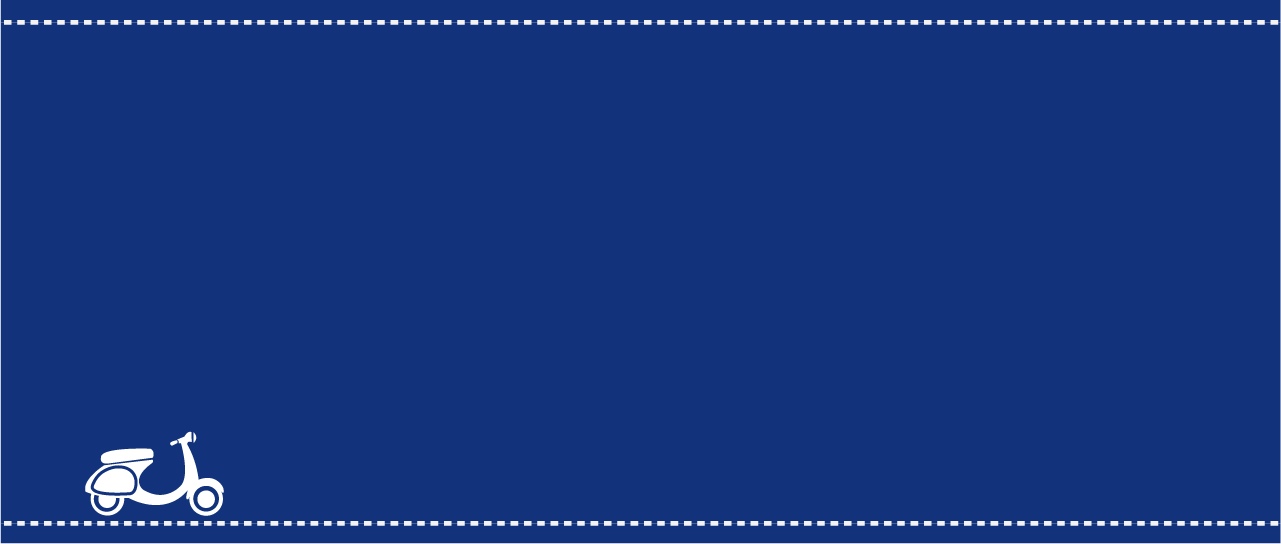
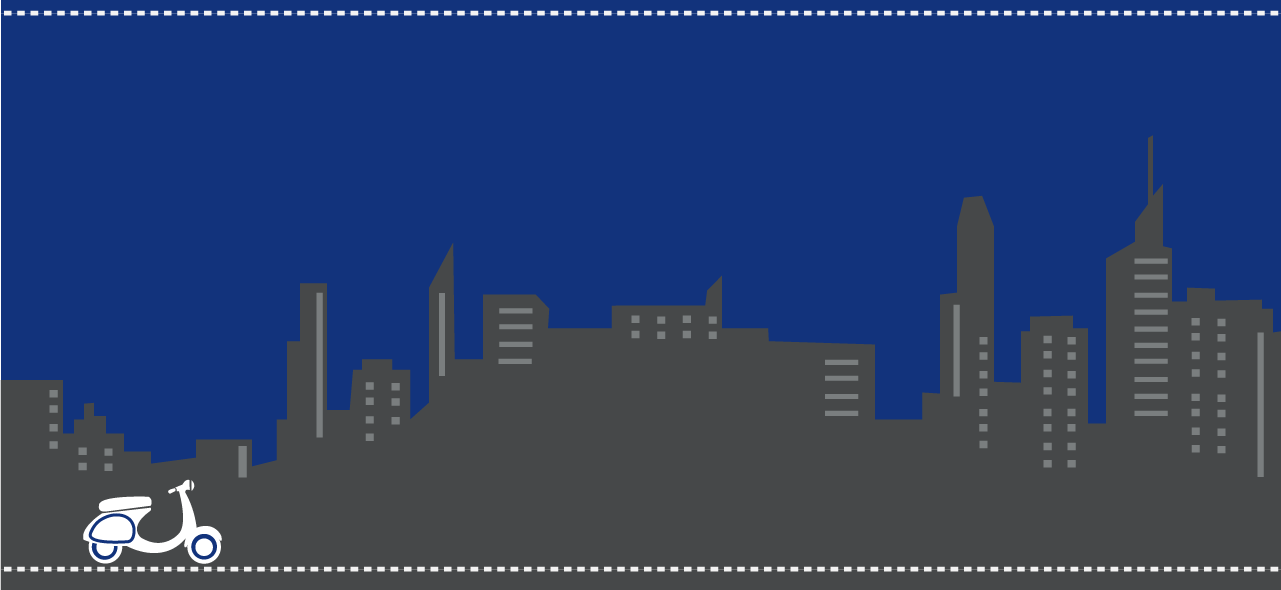
update google map

diff --git a/finalproject/gogoro/assets/js/googlemap.js b/finalproject/gogoro/assets/js/googlemap.js
@@ -1,0 +1,84 @@
+// When the window has finished loading create our google map below
+google.maps.event.addDomListener(window, 'load', init);
+
+function init() {
+    // Basic options for a simple Google Map
+    // For more options see: https://developers.google.com/maps/documentation/javascript/reference#MapOptions
+    var mapOptions = {
+        // How zoomed in you want the map to start at (always required)
+        zoom: 10,
+
+        // The latitude and longitude to center the map (always required)
+        center: new google.maps.LatLng(25.028297, 121.491359), // New York
+
+        // How you would like to style the map. 
+        // This is where you would paste any style found on Snazzy Maps.
+        styles: [{
+            "featureType": "administrative",
+            "elementType": "labels.text.fill",
+            "stylers": [{
+                "color": "#444444"
+            }]
+        }, {
+            "featureType": "landscape",
+            "elementType": "all",
+            "stylers": [{
+                "color": "#f2f2f2"
+            }]
+        }, {
+            "featureType": "poi",
+            "elementType": "all",
+            "stylers": [{
+                "visibility": "off"
+            }]
+        }, {
+            "featureType": "road",
+            "elementType": "all",
+            "stylers": [{
+                "saturation": -100
+            }, {
+                "lightness": 45
+            }]
+        }, {
+            "featureType": "road.highway",
+            "elementType": "all",
+            "stylers": [{
+                "visibility": "simplified"
+            }]
+        }, {
+            "featureType": "road.arterial",
+            "elementType": "labels.icon",
+            "stylers": [{
+                "visibility": "off"
+            }]
+        }, {
+            "featureType": "transit",
+            "elementType": "all",
+            "stylers": [{
+                "visibility": "off"
+            }]
+        }, {
+            "featureType": "water",
+            "elementType": "all",
+            "stylers": [{
+                "color": "#b3efff"
+            }, {
+                "visibility": "on"
+            }]
+        }]
+    };
+
+    // Get the HTML DOM element that will contain your map 
+    // We are using a div with id="map" seen below in the <body>
+    var mapElement = document.getElementById('google-map');
+
+    // Create the Google Map using our element and options defined above
+    var map = new google.maps.Map(mapElement, mapOptions);
+
+    // Let's also add a marker while we're at it
+    var marker = new google.maps.Marker({
+        position: new google.maps.LatLng(25.028297, 121.491359),
+        map: map,
+        icon: "assets/images/marker.png"
+    });
+}

diff --git a/finalproject/gogoro/googlemap.html b/finalproject/gogoro/googlemap.html
@@ -2,29 +2,53 @@
 <html>
 
 <head>
-    <!-- This stylesheet contains specific styles for displaying the map
-         on this page. Replace it with your own styles as described in the
-         documentation:
-         https://developers.google.com/maps/documentation/javascript/tutorial -->
-    <link rel="stylesheet" href="/maps/documentation/javascript/demos/demos.css">
+    <style type="text/css">
+        /* Set a size for our map container, the Google Map will take up 100% of this container */
+        
+        #map {
+            width: 750px;
+            height: 500px;
+        }
+    </style>
+    <script src="https://maps.googleapis.com/maps/api/js?key=AIzaSyBMdO7E7qAJnpWl7hTt6BgOC5jVk-1nnhw&callback=LoadGeoJson" async defer></script>
+    <script src="assets/js/googlemap.js"></script>
+
 </head>
 
 <body>
     <div id="map"></div>
-    <script>
-        function initMap() {
-            // Create a map object and specify the DOM element for display.
-            var map = new google.maps.Map(document.getElementById('map'), {
-                center: {
-                    lat: -34.397,
-                    lng: 150.644
-                },
-                scrollwheel: false,
-                zoom: 8
+</body>
+
+<script>
+    var map;
+
+    function LoadGeoJson() {
+        map = new google.maps.Map(document.getElementById('map'), {
+            zoom: 2,
+            center: new google.maps.LatLng(2.8, -187.3),
+            mapTypeId: 'terrain'
+        });
+
+        // Create a <script> tag and set the USGS URL as the source.
+        var script = document.createElement('script');
+        // This example uses a local copy of the GeoJSON stored at
+        // http://earthquake.usgs.gov/earthquakes/feed/v1.0/summary/2.5_week.geojsonp
+        script.src = 'https://developers.google.com/maps/documentation/javascript/examples/json/earthquake_GeoJSONP.js';
+        document.getElementsByTagName('head')[0].appendChild(script);
+    }
+
+    // Loop through the results array and place a marker for each
+    // set of coordinates.
+    window.eqfeed_callback = function (results) {
+        for (var i = 0; i < results.features.length; i++) {
+            var coords = results.features[i].geometry.coordinates;
+            var latLng = new google.maps.LatLng(coords[1], coords[0]);
+            var marker = new google.maps.Marker({
+                position: latLng,
+                map: map
             });
         }
-    </script>
-    <script src="https://maps.googleapis.com/maps/api/js?key=AIzaSyBMdO7E7qAJnpWl7hTt6BgOC5jVk-1nnhw&callback=initMap" async defer></script>
-</body>
+    }
+</script>
 
 </html>

diff --git a/finalproject/gogoro/index.html b/finalproject/gogoro/index.html
@@ -19,6 +19,9 @@
     <!-- D3.js -->
     <script type="text/javascript" src="assets/js/d3.v3.js"></script>
 
+    <!-- Google map javascript api key -->
+    <script src="https://maps.googleapis.com/maps/api/js?key=AIzaSyBMdO7E7qAJnpWl7hTt6BgOC5jVk-1nnhw&callback=init" async defer></script>
+
     <!-- custom css-->
     <link rel="stylesheet" href="assets/css/index.css">
 
@@ -26,6 +29,7 @@
     <script src="assets/js/index.js"></script>
     <script src="assets/js/svg_sales.js"></script>
     <script src="assets/js/svg_price.js"></script>
+    <script src="assets/js/googlemap.js"></script>
 
 </head>
 
@@ -106,7 +110,7 @@
     </div>
 
     <div id="station" class="container-fluid">
-
+        <div id="google-map"></div>
     </div>
 
     <div id="end" class="container-fluid">
@@ -115,8 +119,23 @@
                 <p>gogoro 目前還只屬於萌芽階段，銷量和傳統機車相比確實落差很大，推行過程也並非一帆風順，但不可否認，它的品牌形象有成功建立起來，認知度也逐漸增加。從環保的角度，電動車雖是一個可嘗試的新選擇，但要如何突破一般機車騎士的使用習慣，還有很長的一段路要走。</p>
             </div>
         </div>
+        <img id="end-building" src="assets/images/end_building.png">
+        <img id="end-ggr" src="assets/images/end_ggr.png">
+        <img id="end-line-top" src="assets/images/line.png">
+        <img id="end-line-down" src="assets/images/line.png">
+        <div class="row">
+            <div class="col-sm-4 col-sm-offset-4">
+                <div id="footer">
+                    <p>數據、文字整理｜吳昀庭</p>
+                    <p>美術設計｜吳昀庭</p>
+                    <p>版型編排｜吳昀庭、古君葳</p>
+                    <p>網頁設計｜古君葳</p>
+                    <p>指導｜謝吉隆</p>
+                </div>
+            </div>
+        </div>
     </div>
-
 </body>
+
 
 </html>

diff --git a/finalproject/gogoro/assets/css/index.css b/finalproject/gogoro/assets/css/index.css
@@ -286,20 +286,62 @@ body {
     height: 700px;
 }
 
+#google-map {
+    margin-top: 50px;
+    width: 800px;
+    height: 600px;
+}
+
 
 /*****************
 *    end
 *****************/
 
 #end {
-    background-image: url(../images/intro.png);
+    /*
+    background-image: url(../images/end.png);
     background-repeat: no-repeat;
     background-size: cover;
-    height: 385px;
+    */
+    background-color: #12337c;
+    height: 590px;
 }
 
 #end-text {
     font-size: 24px;
     color: white;
-    padding-top: 100px;
+    margin-top: 70px;
+}
+
+#end-building {
+    position: absolute;
+    left: 0;
+    margin-top: -80px;
+}
+
+#end-ggr {
+    position: absolute;
+    left: 0;
+    margin-top: 265px;
+    margin-left: 100px;
+}
+
+#end-line-top {
+    position: absolute;
+    left: 0;
+    margin-top: -200px;
+}
+
+#end-line-down {
+    position: absolute;
+    left: 0;
+    margin-top: 355px;
+}
+
+#footer {
+    margin-left: 50px;
+    line-height: 15px;
+    font-size: 18px;
+    color: white;
+    margin-top: 200px;
 }
